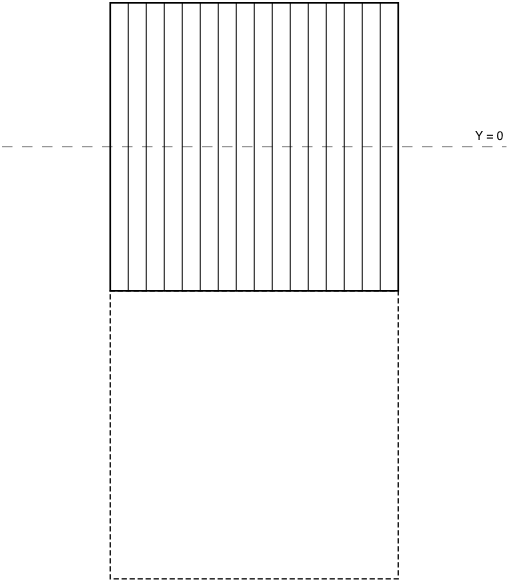
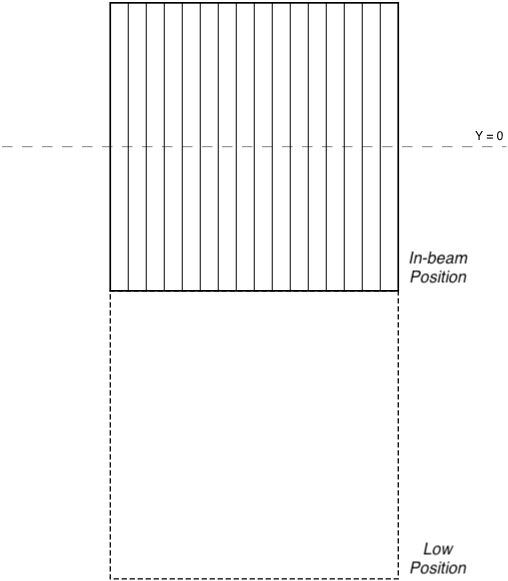
FIG: edits to make them look better

Changed region(s): [[0.2067, 0.0, 0.9154, 1.0], [0.8858, 0.2169, 1.0, 0.2478]]

diff --git a/NEEDED_FIGURES.rst b/NEEDED_FIGURES.rst
@@ -5,6 +5,8 @@ Energy diagram for the 27Al(p,a)24Mg reaction
 
 -   Show major resonances accessible when studying at zero degrees
 
+-   Picture I have in my head is from TUNL, but only goes up to mass 20
+
 
 Chapter 2
 =========
@@ -28,11 +30,8 @@ Chapter 3
 Completed 2018-08-21 (really shitty, but that's fine)
 
 .. Beam divergence from quadrupole
-
 .. -   changing focal position based on magnetic strength
-
 .. Beam steering from misaligned Beam
-
 .. -   beam looks to move left and right as field strength changed
 
 
@@ -46,7 +45,6 @@ Alpha distribution at detector
 -   include both optimized and not-optimized distributions
 
 .. Detector positions
-
 .. -   Show strips, in-beam and below beam positions, basic
 
 
@@ -66,7 +64,5 @@ Chapter 6
 Use figure in Ch04
 
 .. Si strip orientation
-
 .. -   this could be handled by "Detector positions" figure in Ch04?
-
 .. -   Yes, let's just use that figure.
